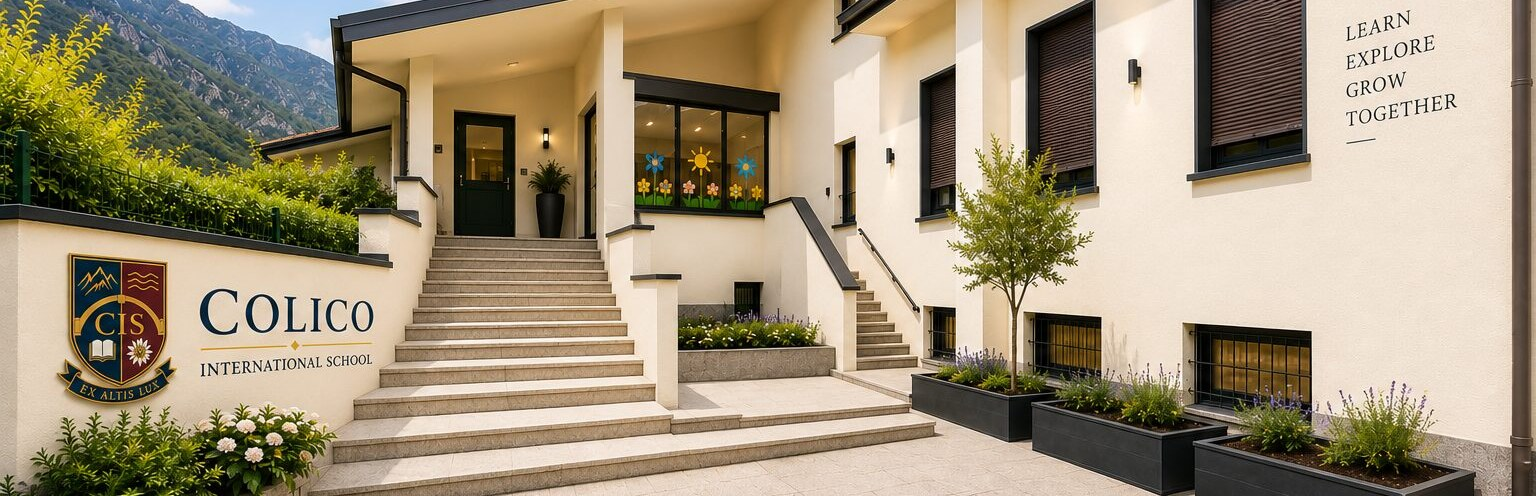
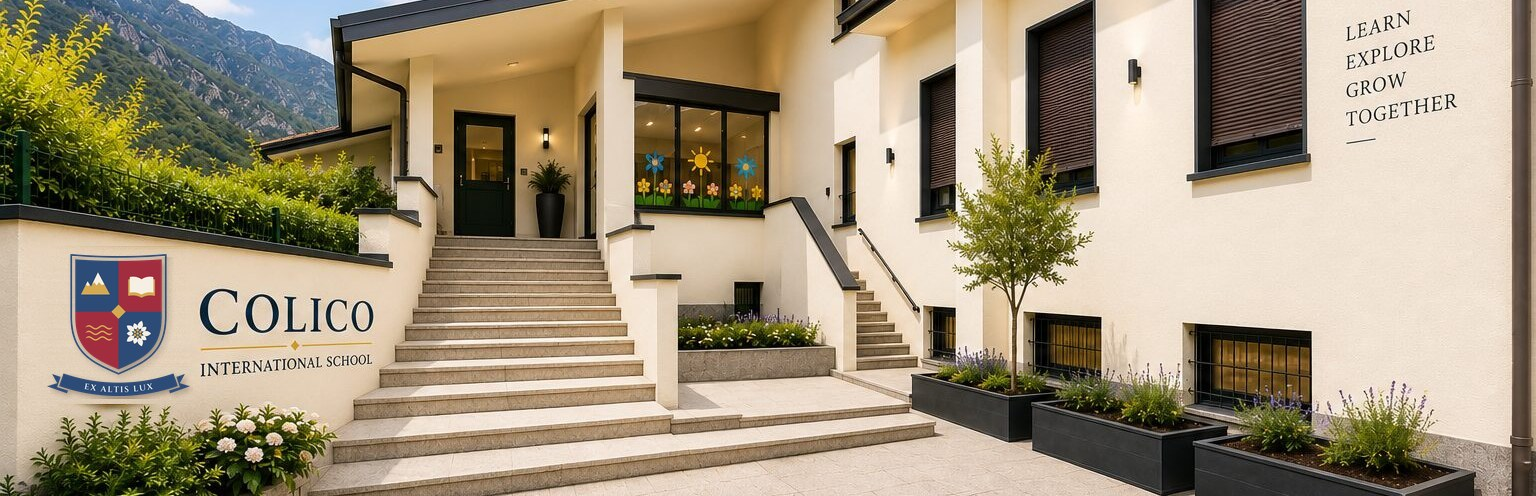
Foto dell'ingresso con lo stemma definitivo; piano delle rate nascosto su richiesta del committente
Lo stemma vecchio sul muro della foto è sostituito da quello definitivo. Il piano
di pagamento in cinque rate non si vede più (interruttore SHOW_SCHEDULE in
fees.tsx); con lui sparisce la nota che rimanda alle rate. Restano le schede dei
prezzi e la nota sulla NSAF.

Changed region(s): [[0.0312, 0.5141, 0.125, 0.8165]]

diff --git a/src/components/sections/fees.tsx b/src/components/sections/fees.tsx
@@ -14,6 +14,11 @@ type Tier = Dict["fees"]["tiers"][number];
 /* Pre-K col fiore dello stemma, Grade 1–5 col tocco. */
 const ICONS: IconName[] = ["flower", "mortarboard"];
 
+/* Il piano delle rate è nascosto su richiesta del committente (9/11/2026), che
+   non vuole ancora mostrarlo. Con lui sparisce la nota che rimanda alle rate.
+   Per rimetterlo basta portare questo valore a true. */
+const SHOW_SCHEDULE = false;
+
 /* Le rette su fondo Blu Lario: due schede di prezzo e, sotto, il piano delle
    cinque rate, che resta una tabella perché è un dato a due dimensioni. I
    totali si calcolano dalle righe: non c'è un numero scritto due volte. */
@@ -34,6 +39,7 @@ export function Fees({ lang, t }: { lang: Lang; t: Dict["fees"] }) {
         ))}
       </div>
 
+      {SHOW_SCHEDULE && (
       <Reveal className="mt-8">
         <div className={`rounded-[20px] p-6 shadow-float sm:p-8 ${CARD}`}>
           <h3 className="font-display text-2xl font-semibold text-heading">{t.schedule.title}</h3>
@@ -71,8 +77,10 @@ export function Fees({ lang, t }: { lang: Lang; t: Dict["fees"] }) {
           </div>
         </div>
       </Reveal>
+      )}
 
       <div className="mt-6 space-y-1.5 text-[13px] text-fg-muted">
+        {SHOW_SCHEDULE && <p>{t.schedule.note}</p>}
         {t.notes.map((n) => (
           <p key={n}>{n}</p>
         ))}

diff --git a/src/content/en.ts b/src/content/en.ts
@@ -222,9 +222,9 @@ export const en: Dict = {
         { id: "P5", due: "March 2028", what: "25% tuition", prek: 2625, grade: 3750 },
       ],
       total: "Total (NSAF + registration + tuition)",
+      note: "* School materials (books, approx. €750) billed in June together with P2. Cafeteria (approx. €1,650/year, optional) billed in 3 instalments together with P3, P4 and P5. Bus (approx. €1,200/year, optional) invoiced separately.",
     },
     notes: [
-      "* School materials (books, approx. €750) billed in June together with P2. Cafeteria (approx. €1,650/year, optional) billed in 3 instalments together with P3, P4 and P5. Bus (approx. €1,200/year, optional) invoiced separately.",
       "* NSAF: New Student Admission Fee, paid once at enrolment. Fees exclude meals, bus and materials.",
     ],
   },

diff --git a/src/content/it.ts b/src/content/it.ts
@@ -244,9 +244,9 @@ export const it = {
         { id: "P5", due: "Marzo 2028", what: "25% retta", prek: 2625, grade: 3750 },
       ],
       total: "Totale (NSAF + iscrizione + retta)",
+      note: "* Materiale scolastico (libri, circa €750) addebitato a giugno insieme a P2. Mensa (circa €1.650/anno, opzionale) addebitata in 3 rate insieme a P3, P4 e P5. Bus (circa €1.200/anno, opzionale) fatturato separatamente.",
     },
     notes: [
-      "* Materiale scolastico (libri, circa €750) addebitato a giugno insieme a P2. Mensa (circa €1.650/anno, opzionale) addebitata in 3 rate insieme a P3, P4 e P5. Bus (circa €1.200/anno, opzionale) fatturato separatamente.",
       "* NSAF: New Student Admission Fee, versata una sola volta al momento dell'iscrizione. Rette escluse mensa, bus e materiali.",
     ],
   },
